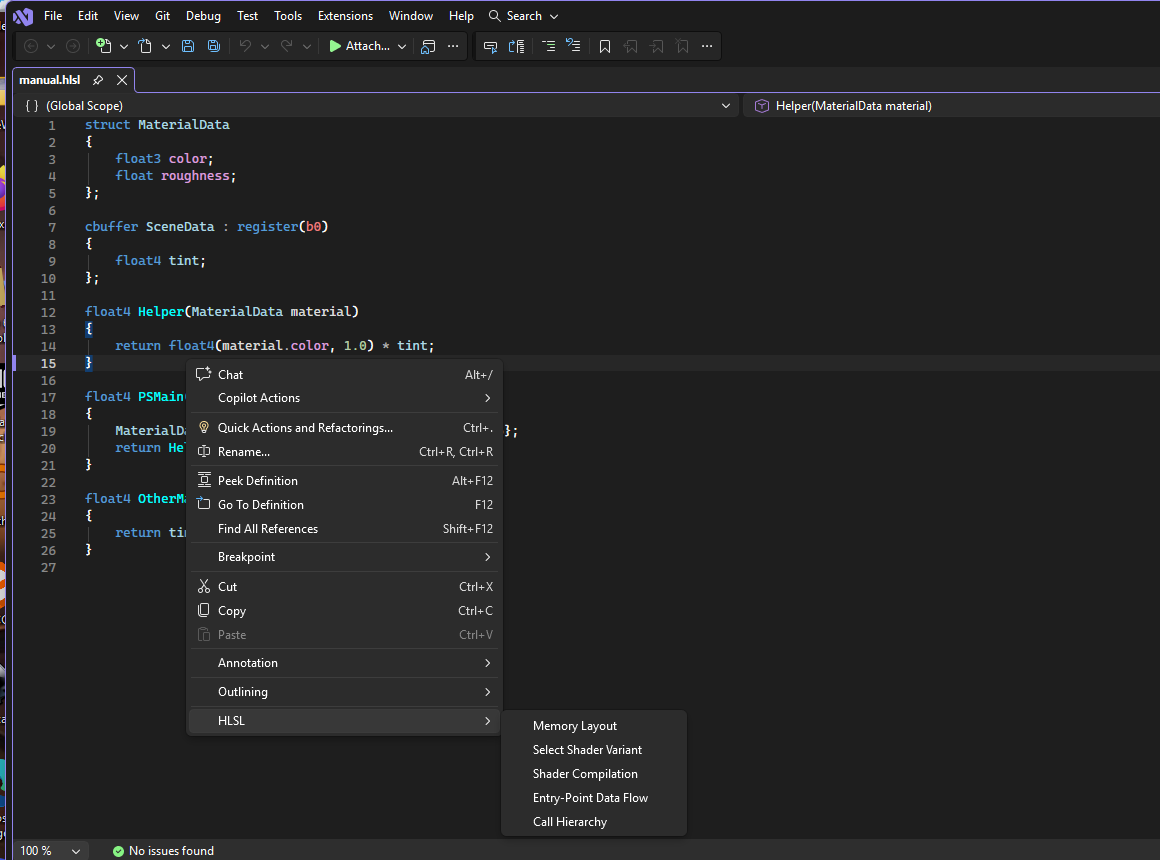
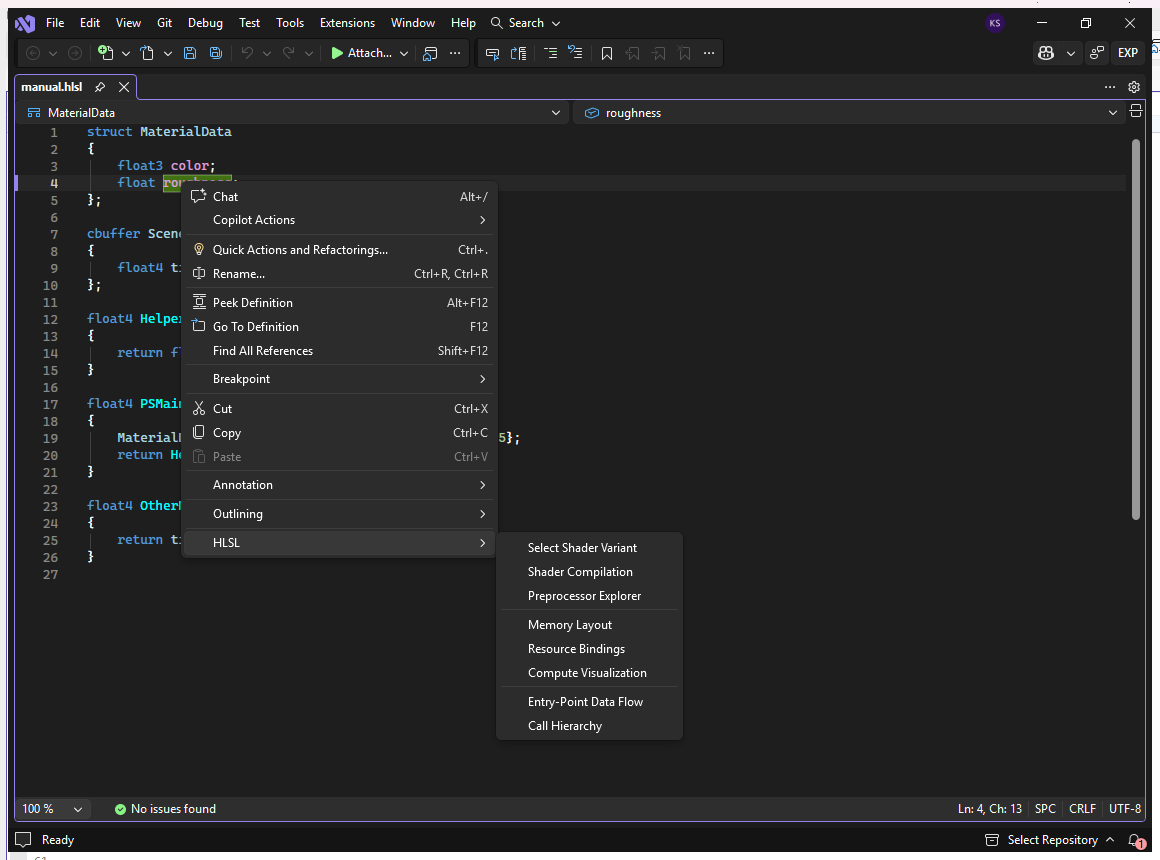
Move remaining Visual Studio tools into HLSL context menu (#94)

diff --git a/clients/visual-studio/HlslLsp.VisualStudio.Bootstrap/HlslBootstrapPackage.cs b/clients/visual-studio/HlslLsp.VisualStudio.Bootstrap/HlslBootstrapPackage.cs
@@ -172,18 +172,20 @@ public sealed class HlslBootstrapPackage : AsyncPackage
                 new CommandID(commandSet, 0x0102));
         compilationInfo.BeforeQueryStatus += OnHlslContextCommandBeforeQueryStatus;
         commands.AddCommand(compilationInfo);
-        commands.AddCommand(
-            new OleMenuCommand(
+        var resourceBindings = new OleMenuCommand(
                 (_, _) => JoinableTaskFactory.RunAsync(
                         () => ShowResourceBindingsAsync(DisposalToken))
                     .FileAndForget("HlslLsp/ShowResourceBindings"),
-                new CommandID(commandSet, 0x0103)));
-        commands.AddCommand(
-            new OleMenuCommand(
+                new CommandID(commandSet, 0x0103));
+        resourceBindings.BeforeQueryStatus += OnHlslContextCommandBeforeQueryStatus;
+        commands.AddCommand(resourceBindings);
+        var preprocessorExplorer = new OleMenuCommand(
                 (_, _) => JoinableTaskFactory.RunAsync(
                         () => ShowPreprocessorExplorerAsync(DisposalToken))
                     .FileAndForget("HlslLsp/ShowPreprocessorExplorer"),
-                new CommandID(commandSet, 0x0104)));
+                new CommandID(commandSet, 0x0104));
+        preprocessorExplorer.BeforeQueryStatus += OnHlslContextCommandBeforeQueryStatus;
+        commands.AddCommand(preprocessorExplorer);
         var entryPointDataFlow = new OleMenuCommand(
                 (_, _) => JoinableTaskFactory.RunAsync(
                         () => ShowEntryPointDataFlowAsync(DisposalToken))
@@ -198,12 +200,13 @@ public sealed class HlslBootstrapPackage : AsyncPackage
                 new CommandID(commandSet, 0x0106));
         callHierarchy.BeforeQueryStatus += OnHlslContextCommandBeforeQueryStatus;
         commands.AddCommand(callHierarchy);
-        commands.AddCommand(
-            new OleMenuCommand(
+        var computeVisualization = new OleMenuCommand(
                 (_, _) => JoinableTaskFactory.RunAsync(
                         () => ShowComputeVisualizationAsync(DisposalToken))
                     .FileAndForget("HlslLsp/ShowComputeVisualization"),
-                new CommandID(commandSet, 0x0107)));
+                new CommandID(commandSet, 0x0107));
+        computeVisualization.BeforeQueryStatus += OnHlslContextCommandBeforeQueryStatus;
+        commands.AddCommand(computeVisualization);
     }
 
     private async Task ShowMemoryLayoutAsync(CancellationToken cancellationToken)
@@ -400,7 +403,7 @@ public sealed class HlslBootstrapPackage : AsyncPackage
         if (uri == null)
         {
             await ShowInformationAsync(
-                "Open an HLSL document, then run Tools > HLSL Resource Bindings.",
+                "Open an HLSL document, then choose HLSL > Resource Bindings.",
                 cancellationToken);
             return;
         }
@@ -505,7 +508,7 @@ public sealed class HlslBootstrapPackage : AsyncPackage
         CancellationToken cancellationToken)
     {
         // A background save/variant refresh must never supersede an explicit
-        // Tools command that the user is waiting for.
+        // context command that the user is waiting for.
         if (Volatile.Read(ref explicitResourceBindingsRequests) != 0)
         {
             return;
@@ -547,7 +550,7 @@ public sealed class HlslBootstrapPackage : AsyncPackage
         if (uri == null)
         {
             await ShowInformationAsync(
-                "Open an HLSL document, then run Tools > HLSL Preprocessor Explorer.",
+                "Open an HLSL document, then choose HLSL > Preprocessor Explorer.",
                 cancellationToken);
             return;
         }
@@ -653,7 +656,7 @@ public sealed class HlslBootstrapPackage : AsyncPackage
         CancellationToken cancellationToken)
     {
         // A background save/variant refresh must never supersede an explicit
-        // Tools command that the user is waiting for.
+        // context command that the user is waiting for.
         if (Volatile.Read(ref explicitPreprocessorExplorerRequests) != 0)
         {
             return;
@@ -695,7 +698,7 @@ public sealed class HlslBootstrapPackage : AsyncPackage
         if (uri == null)
         {
             await ShowInformationAsync(
-                "Open an HLSL document, then run Tools > HLSL Compute Visualization.",
+                "Open an HLSL document, then choose HLSL > Compute Visualization.",
                 cancellationToken);
             return;
         }
@@ -972,7 +975,7 @@ public sealed class HlslBootstrapPackage : AsyncPackage
         await JoinableTaskFactory.SwitchToMainThreadAsync(ambientCancellationToken);
         // priorWindow above is used only for the preserve-on-failure
         // decision, never substituted in here: when existingWindow is null
-        // (the explicit Tools-command path), ShowToolWindowAsync must
+        // (the explicit context-command path), ShowToolWindowAsync must
         // always run so an existing-but-hidden pane is revealed. Using
         // priorWindow as a stand-in for window would let ShowToolWindowAsync
         // be skipped whenever FindToolWindowAsync above happened to find an
@@ -1027,7 +1030,7 @@ public sealed class HlslBootstrapPackage : AsyncPackage
         CancellationToken cancellationToken)
     {
         // A background save/variant/edit refresh must never supersede an
-        // explicit Tools command the user is waiting for, but it must also
+        // explicit context command the user is waiting for, but it must also
         // never be silently discarded: record it so ShowEntryPointDataFlowAsync's
         // explicit-command overload can replay a single bounded refresh once
         // that command completes, ensuring the window can never be left
@@ -1035,7 +1038,7 @@ public sealed class HlslBootstrapPackage : AsyncPackage
         if (!entryPointDataFlowRefreshGate.TryBeginBackgroundRefresh())
         {
             // A background save/variant/edit refresh must never supersede
-            // an explicit Tools command the user is waiting for; the gate
+            // an explicit context command the user is waiting for; the gate
             // above records this refresh as pending rather than dropping it
             // (see ShowEntryPointDataFlowAsync's explicit-command overload,
             // which replays it once the explicit request finishes).
@@ -1285,7 +1288,7 @@ public sealed class HlslBootstrapPackage : AsyncPackage
     // Resolves the callable at (uri, line, character) via
     // textDocument/prepareCallHierarchy, then fetches its incoming and
     // outgoing calls, and always shows/reveals the tool window (an explicit
-    // Tools-command invocation must never leave an existing-but-hidden pane
+    // context-command invocation must never leave an existing-but-hidden pane
     // hidden -- there is no "existing window" preservation concern here the
     // way ShowEntryPointDataFlowAsync has, since establishing a *new* root
     // always intentionally replaces whatever was shown before).

diff --git a/clients/visual-studio/HlslLsp.VisualStudio.Tests/CommandTablePackagingTests.cs b/clients/visual-studio/HlslLsp.VisualStudio.Tests/CommandTablePackagingTests.cs
@@ -1,9 +1,11 @@
 using System;
 using System.Collections;
 using System.IO;
+using System.Linq;
 using System.Reflection;
 using System.Resources;
 using System.Text;
+using System.Xml.Linq;
 using Xunit;
 
 namespace HlslLsp.VisualStudio.Tests;
@@ -48,16 +50,41 @@ public sealed class CommandTablePackagingTests
     }
 
     [Fact]
-    public void CommandTable_RegistersComputeVisualizationToolsCommand()
+    public void CommandTable_RegistersAllShaderToolsInTheHlslContextMenu()
     {
         var commandTablePath = Path.GetFullPath(
             Path.Combine(
                 AppContext.BaseDirectory,
                 @"..\..\..\..\HlslLsp.VisualStudio.Bootstrap\Menus.vsct"));
-        var commandTable = File.ReadAllText(commandTablePath);
+        var commandTable = XDocument.Load(commandTablePath);
+        XNamespace ns = "http://schemas.microsoft.com/VisualStudio/2005-10-18/CommandTable";
 
-        Assert.Contains("id=\"ShowComputeVisualization\"", commandTable);
-        Assert.Contains("<ButtonText>HLSL Compute Visualization</ButtonText>", commandTable);
-        Assert.Contains("<Parent guid=\"guidHlslLspCommands\" id=\"HlslLspGroup\"/>", commandTable);
+        void AssertContextCommand(string id, string group, string label)
+        {
+            var button = Assert.Single(
+                commandTable.Descendants(ns + "Button"),
+                element => (string)element.Attribute("id") == id);
+            Assert.Equal(group, (string)button.Element(ns + "Parent")?.Attribute("id"));
+            Assert.Equal(
+                "DynamicVisibility",
+                (string)Assert.Single(button.Elements(ns + "CommandFlag")));
+            Assert.Equal(label, (string)button.Descendants(ns + "ButtonText").Single());
+        }
+
+        AssertContextCommand(
+            "ShowResourceBindings",
+            "HlslContextInspectionGroup",
+            "Resource Bindings");
+        AssertContextCommand(
+            "ShowPreprocessorExplorer",
+            "HlslContextGroup",
+            "Preprocessor Explorer");
+        AssertContextCommand(
+            "ShowComputeVisualization",
+            "HlslContextInspectionGroup",
+            "Compute Visualization");
+        Assert.DoesNotContain(
+            commandTable.Descendants(ns + "Parent"),
+            element => (string)element.Attribute("id") == "IDM_VS_MENU_TOOLS");
     }
 }

diff --git a/clients/visual-studio/HlslLsp.VisualStudio.Bootstrap/EntryPointDataFlowModel.cs b/clients/visual-studio/HlslLsp.VisualStudio.Bootstrap/EntryPointDataFlowModel.cs
@@ -375,7 +375,7 @@ internal static class EntryPointDataFlowRefreshLogic
     // to read DocumentUri for the preserve decision) silently stand in for
     // the caller's own reference and skip ShowToolWindowAsync entirely --
     // leaving an already-open-but-hidden pane hidden after an explicit
-    // Tools-command invocation. The rule is simply: reveal whenever the
+    // context-command invocation. The rule is simply: reveal whenever the
     // caller did not supply its own already-resolved window (every explicit
     // command invocation passes none); a background refresh always supplies
     // its own and must never force a reveal/steal focus.
@@ -429,7 +429,7 @@ internal static class EntryPointDataFlowRefreshLogic
     }
 }
 
-// Coordinates the race between an explicit Tools-command request and a
+// Coordinates the race between an explicit context-command request and a
 // concurrent background refresh trigger (save, active-variant change, or a
 // debounced unsaved edit): an explicit request must never be superseded by
 // a background refresh, but a background refresh that arrives while the

diff --git a/clients/visual-studio/HlslLsp.VisualStudio.Tests/EntryPointDataFlowRefreshTests.cs b/clients/visual-studio/HlslLsp.VisualStudio.Tests/EntryPointDataFlowRefreshTests.cs
@@ -56,7 +56,7 @@ public sealed class EntryPointDataFlowRefreshTests
     }
 
     // Defect: a refresh trigger (save/variant/debounced edit) that arrived
-    // while an explicit Tools-command request was in flight was silently
+    // while an explicit context-command request was in flight was silently
     // discarded, so the window could remain stale forever immediately after
     // the explicit request completed. TryBeginBackgroundRefresh must defer
     // (not drop) such a trigger, and ExitExplicitRequest must report exactly
@@ -297,7 +297,7 @@ public sealed class EntryPointDataFlowRefreshTests
         Assert.True(replayCount >= 0);
     }
 
-    // Defect: an explicit Tools-command invocation could leave an
+    // Defect: an explicit context-command invocation could leave an
     // already-open-but-hidden tool window pane hidden, because a prior fix
     // for a different defect (preserving last-good content) substituted a
     // non-showing FindToolWindowAsync lookup result in for the window used

diff --git a/clients/visual-studio/HlslLsp.VisualStudio.Bootstrap/ComputeVisualizationToolWindow.cs b/clients/visual-studio/HlslLsp.VisualStudio.Bootstrap/ComputeVisualizationToolWindow.cs
@@ -35,7 +35,7 @@ public sealed class ComputeVisualizationToolWindow : ToolWindowPane
             else
             {
                 control.SetInputError(
-                    "Open an HLSL document, then run Tools > HLSL Compute Visualization.");
+                    "Open an HLSL document, then choose HLSL > Compute Visualization.");
             }
         };
         Content = control;
@@ -161,7 +161,7 @@ internal sealed class ComputeVisualizationControl : UserControl
         if (report == null)
         {
             AddText(
-                "Open an HLSL document, then run Tools > HLSL Compute Visualization.",
+                "Open an HLSL document, then choose HLSL > Compute Visualization.",
                 Brushes.Gray);
             return;
         }

diff --git a/clients/visual-studio/HlslLsp.VisualStudio.Bootstrap/PreprocessorExplorerModel.cs b/clients/visual-studio/HlslLsp.VisualStudio.Bootstrap/PreprocessorExplorerModel.cs
@@ -189,7 +189,7 @@ public sealed class PreprocessorSettingModel
 // language client (Client assembly), mirroring CompilationInfoBridge and
 // MemoryLayoutBridge. There is no hover trigger for this feature, so only a
 // request handler is registered; presentation is driven entirely by the
-// Tools command and its refresh hooks.
+// context command and its refresh hooks.
 public static class PreprocessorExplorerBridge
 {
     private static Func<Uri, CancellationToken, Task<PreprocessorExplorerModel>> request;

diff --git a/clients/visual-studio/HlslLsp.VisualStudio.Bootstrap/PreprocessorExplorerToolWindow.cs b/clients/visual-studio/HlslLsp.VisualStudio.Bootstrap/PreprocessorExplorerToolWindow.cs
@@ -88,8 +88,8 @@ internal sealed class PreprocessorExplorerControl : UserControl
         {
             content.Children.Add(new TextBlock
             {
-                Text = "Open an HLSL document, then run " +
-                       "Tools > HLSL Preprocessor Explorer.",
+                Text = "Open an HLSL document, then choose " +
+                       "HLSL > Preprocessor Explorer.",
                 TextWrapping = TextWrapping.Wrap,
             });
             return;

diff --git a/clients/visual-studio/HlslLsp.VisualStudio.Bootstrap/CallHierarchyExplorerToolWindow.cs b/clients/visual-studio/HlslLsp.VisualStudio.Bootstrap/CallHierarchyExplorerToolWindow.cs
@@ -164,7 +164,7 @@ public sealed class CallHierarchyExplorerToolWindow : ToolWindowPane
         Render();
     }
 
-    // A brand-new root was resolved (an explicit Tools-command invocation,
+    // A brand-new root was resolved (an explicit context-command invocation,
     // or a background refresh that had to fall back to a fresh root):
     // resets any prior drill-in stack and records the position it was
     // resolved from so a future background refresh can re-run

diff --git a/clients/visual-studio/HlslLsp.VisualStudio.Bootstrap/ResourceBindingsToolWindow.cs b/clients/visual-studio/HlslLsp.VisualStudio.Bootstrap/ResourceBindingsToolWindow.cs
@@ -101,8 +101,8 @@ internal sealed class ResourceBindingsControl : UserControl
         {
             content.Children.Add(new TextBlock
             {
-                Text = "Open an HLSL document, then run " +
-                       "Tools > HLSL Resource Bindings.",
+                Text = "Open an HLSL document, then choose " +
+                       "HLSL > Resource Bindings.",
                 TextWrapping = TextWrapping.Wrap,
             });
             return;

diff --git a/README.md b/README.md
@@ -47,9 +47,10 @@ heap types.
 
 Visual Studio keeps document-specific HLSL actions next to the code that they
 inspect. Right-click an HLSL editor to open the **HLSL** submenu for memory
-layout, shader variants, compilation, entry-point data flow, and call
-hierarchy. The submenu also recognizes configured custom shader extensions,
-while remaining hidden in non-HLSL editors.
+layout, shader variants, compilation, resource bindings, preprocessor
+exploration, compute visualization, entry-point data flow, and call hierarchy.
+The submenu also recognizes configured custom shader extensions, while
+remaining hidden in non-HLSL editors.
 
 ![Context-sensitive HLSL commands in the Visual Studio editor](art/contextual-commands.png)
 
@@ -167,8 +168,9 @@ never guessed) — see
 protocol, grouping/collision semantics, root-signature states, compatibility
 meanings, and navigation behavior.
 
-In Visual Studio, run **Tools > HLSL Resource Bindings**. In Visual Studio
-Code, run **HLSL: Show Resource Bindings** from the Command Palette.
+In Visual Studio, right-click the shader and choose
+**HLSL > Resource Bindings**. In Visual Studio Code, run
+**HLSL: Show Resource Bindings** from the Command Palette.
 
 ### Tutorials
 
@@ -189,8 +191,9 @@ navigation to source and file-backed configuration locations. See
 [`docs/preprocessor-explorer.md`](docs/preprocessor-explorer.md) for the
 protocol and conservative handling of macro-based includes.
 
-In Visual Studio, run **Tools > HLSL Preprocessor Explorer**. In Visual Studio
-Code, run **HLSL: Show Preprocessor Explorer** from the Command Palette.
+In Visual Studio, right-click the shader and choose
+**HLSL > Preprocessor Explorer**. In Visual Studio Code, run
+**HLSL: Show Preprocessor Explorer** from the Command Palette.
 
 ### Semantic colouring
 

diff --git a/clients/visual-studio/README.md b/clients/visual-studio/README.md
@@ -71,8 +71,8 @@ when the active variant changes and when the shown document is saved. See the
 repository's [shader compilation](../../docs/compilation-info.md) reference
 for the full protocol, including DXIL vs SPIR-V reflection availability.
 
-Run **Tools > HLSL Resource Bindings** to open a dedicated tool window with
-the active HLSL document's resource bindings grouped by register space then
+Right-click the active shader and choose **HLSL > Resource Bindings** to open a
+dedicated tool window with its resource bindings grouped by register space then
 CBV/SRV/UAV/sampler class, provable register-range collisions, the embedded
 root signature's state and full details when available, and whether the
 reflected resources are compatible with that root signature. It reuses the
@@ -145,8 +145,9 @@ empty list whenever either the function-visit or definition-collection
 budget was hit, since the server leaves that list empty in both cases
 (an unvisited or uncollected function can't be proven dead code).
 
-Run **Tools > HLSL Compute Visualization** on a configured compute shader to
-inspect its reflected `numthreads` size, logical workload, derived D3D
+Right-click a configured compute shader and choose
+**HLSL > Compute Visualization** to inspect its reflected `numthreads` size,
+logical workload, derived D3D
 `Dispatch()` group count, launched and inactive edge threads, system-value
 mappings, group-shared memory, barriers, wave-size requirements, and optional
 hardware-dependent occupancy estimate. The X/Y/Z inputs are the desired total

diff --git a/docs/resource-bindings.md b/docs/resource-bindings.md
@@ -12,9 +12,10 @@ make the Shader Compilation view unreadable if merged into it.
 For a runnable shader and guided interpretation, see the
 [Resource Bindings tutorial](tutorials/resource-bindings.md).
 
-In Visual Studio, run **Tools > HLSL Resource Bindings**. In Visual Studio
-Code, run **HLSL: Show Resource Bindings** from the Command Palette. Both
-commands operate on the active open HLSL document; there is no separate
+In Visual Studio, right-click the shader and choose
+**HLSL > Resource Bindings**. In Visual Studio Code, run
+**HLSL: Show Resource Bindings** from the Command Palette. Both commands
+operate on the active open HLSL document; there is no separate
 variant argument, matching Shader Compilation.
 
 ## Compiler authority and optimization-dependent resource lists
